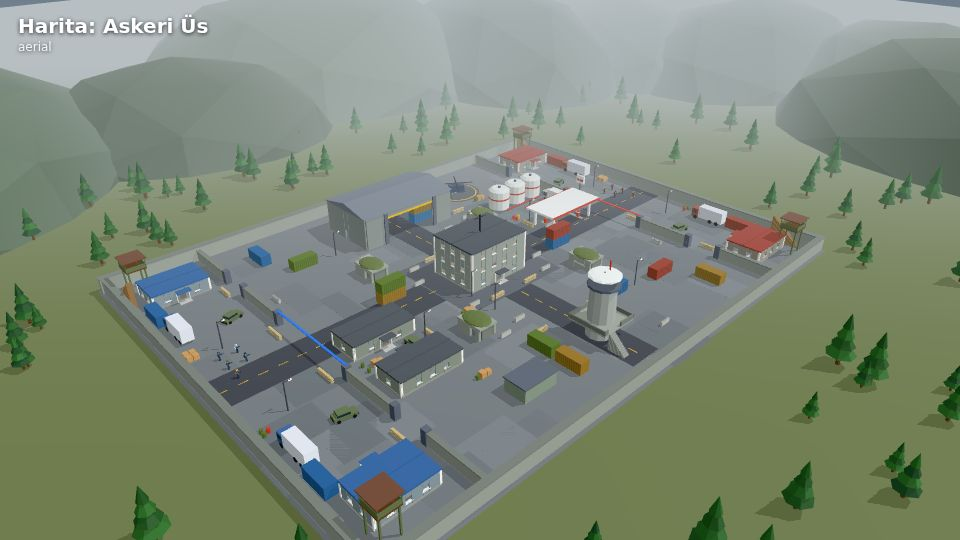
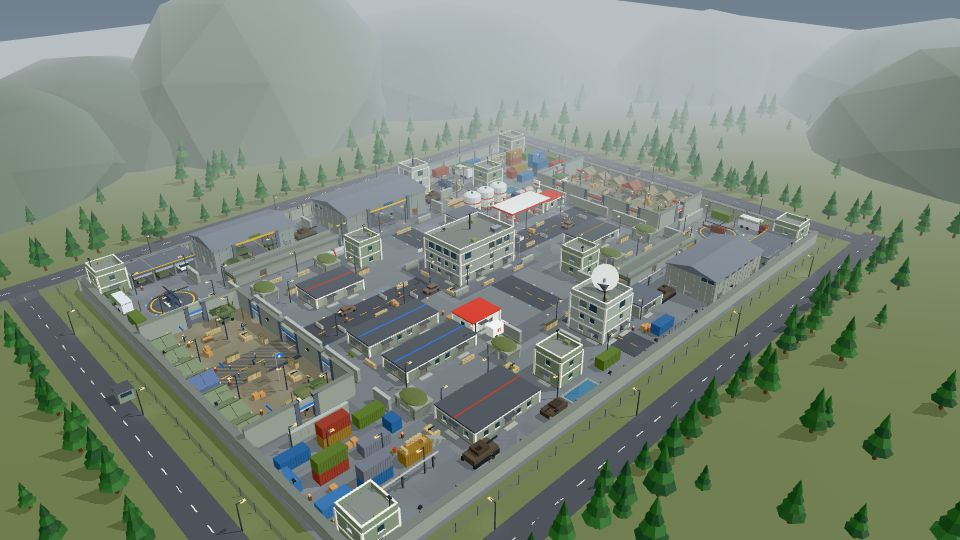
Büyük güncelleme v2: Askeri Üs yeniden tasarımı, küçük resimler, menü düzeltmeleri, README
Claude-Session: https://claude.ai/code/session_01A48dASB2QPbEfyfCNed2Ng

diff --git a/src/maps/index.js b/src/maps/index.js
@@ -7,8 +7,8 @@ import { buildUs } from './us.js';
 // objectives içinde core:true olanlar 3v3'te de kullanılır.
 export const MAPS = {
   kasaba: {
-    id: 'kasaba', name: 'Kasaba', tag: 'Orta boy · karışık mesafe', thumb: '/img/kasaba.jpg',
-    desc: 'Mavi çiftlik ↔ Kırmızı depo. Ortada benzinlik, pazar, kilise ve evler: bina içi çatışma ve cadde savaşı.',
+    id: 'kasaba', name: 'Kasaba', tag: 'Büyük · karışık mesafe', thumb: '/img/kasaba.jpg',
+    desc: 'Taş duvarlı iki spawn avlusu, ortada çeşmeli meydan. Su kulesi ve kilise çan kulesi nişancı yuvaları; 2-3 katlı dolu evler, bahçe duvarları ve ara sokaklarla bina içi çatışma.',
     build: () => buildKasaba(),
   },
 };
@@ -18,8 +18,8 @@ MAPS.vadi = {
   build: () => buildVadi(),
 };
 MAPS.us = {
-  id: 'us', name: 'Askeri Üs', tag: 'Orta boy · yakın mesafe', thumb: '/img/us.jpg',
-  desc: 'Duvarlarla çevrili üs: 3 katlı komuta binası, hangar, radar kulesi, bunkerler ve konteyner sokakları. Kapalı alan ve kapı savaşı.',
+  id: 'us', name: 'Askeri Üs', tag: 'Büyük · katmanlı yakın mesafe', thumb: '/img/us.jpg',
+  desc: 'Duvarlı askeri üs: 3 katlı komuta binası, iki hangar, radar kulesi, tüneller, bunkerler ve konteyner labirenti. Beş kapılı kamplar, her hedefe birden fazla rota.',
   build: () => buildUs(),
 };
 export const DEFAULT_MAP = 'kasaba';

diff --git a/src/menuStyle.js b/src/menuStyle.js
@@ -105,6 +105,7 @@ export const MENU_CSS = `
 #menu .wc:hover{background:#ffffff1a;transform:translateY(-2px)}
 #menu .wc.on{border-color:var(--acc);background:rgba(255,138,31,.17);box-shadow:inset 0 0 0 1px var(--acc)}
 #menu .wc img{width:100%;height:68px;object-fit:contain;display:block}
+#menu img:not([src]){visibility:hidden}
 #menu .wc b{display:block;font-size:15px;letter-spacing:1px;text-transform:uppercase}
 #menu .wc .mini{display:grid;grid-template-columns:auto 1fr;gap:2px 8px;margin-top:5px;font-size:10px;letter-spacing:1px;color:var(--dim);text-transform:uppercase;align-items:center}
 #menu .bar{height:4px;background:#ffffff1c;position:relative}

diff --git a/src/maps/kitMilInterior.js b/src/maps/kitMilInterior.js
@@ -188,7 +188,7 @@ export const ITEMS = {
   bin: { w: 0.5, d: 0.5, draw(b) { b.cyl(0, 0, 0.25, 0.22, 0.2, 0.7, '#3f4a3f', { seg: 8 }); } },
   plant: { w: 0.55, d: 0.55, draw(b) {
     b.cyl(0, 0, 0.275, 0.2, 0.16, 0.4, '#8a5a3a', { seg: 8 });
-    b.ico(0, 0.8, 0.275, 0.4, '#4f7a3a', { scale: [1, 1.3, 1], detail: 0, collide: false });
+    b.ico(0, 0.8, 0.275, 0.3, '#4f7a3a', { scale: [1, 1.3, 1], detail: 0, collide: false });
     b.collide(0, 0, 0.275, 0.45, 1.2, 0.45);
   } },
   cooler: { w: 0.45, d: 0.45, draw(b) {

diff --git a/README.md b/README.md
@@ -13,6 +13,14 @@ düz renkli / flat-shaded, düşük poligonlu modeller.
 - `viewer.html` – model önizleme sayfası (`?view=characters|closeup|weapons|weapon|items`)
 - `screenshots/` – tasarım ekran görüntüleri
 
+**Aşama 4 – Büyük güncelleme (v2):**
+- Yeni menü (`src/menu.js`, `menuScene.js`, `menuStyle.js`): canlı 3D arka plan, hızlı/rastgele/özel oyun, sınıf ve silah vitrini, seviye/XP
+- Özel maç: takım başına 1–32 oyuncu, Ele Geçirme / Takım Çatışması, bilet, süre; gündüz/gün batımı/gece, yağmur/sis (`src/game/match.js`, `weather.js`)
+- Silahlar: 32 model, loadout seçimi, hızlı şarjör, yeni bıçak, duman/flaşbang/claymore (`weapons*.js`, `gadgets.js`, `anim.js`)
+- Haritalar yeniden tasarlandı (spawn'lar birbirini görmez, tırmanılabilir kuleler, dolu iç mekânlar): `kasaba.js`, `vadi.js`, `us.js`; kit: `house.js`, `furn.js`, `kitTown.js`, `kitVadi.js`, `kitMil*.js`
+- Bot stratejisi: mangallar, kanat manevrası, gözetleme noktası, canlandırma; ileri doğma, üs bölgesi cezası
+- Test araçları: `scripts/probes/*` (reach, flood, sim, climb, walls, mapcheck), `scripts/menushot.mjs`, `vite.test.config.js` (HMR'siz test sunucusu: `npx vite --config vite.test.config.js --port 5180`)
+
 **Aşama 3 – Harita 2 ve 3 (onay bekliyor):**
 - `src/maps/terrain.js` – yükseklik haritalı arazi (fizik, mermi, yol bulma, minimap gölgelemesi)
 - `src/maps/vadi.js` – **Vadi**: nehirli kanyon, tek taş köprü + iki sığ geçit, ormanlı sırtlar, Ambar / Değirmen / Gözetleme Tepesi / Orman Kampı / Köprü
